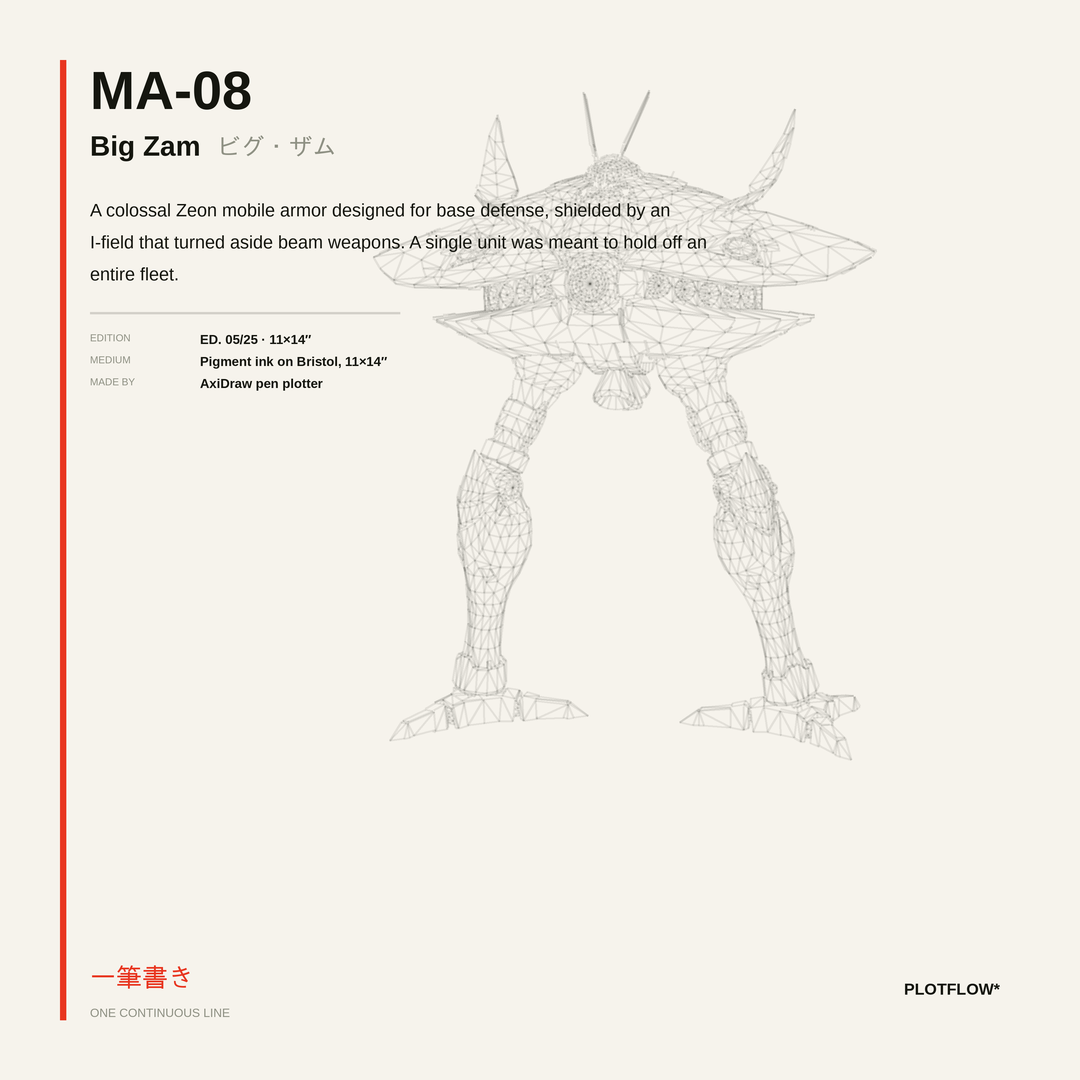
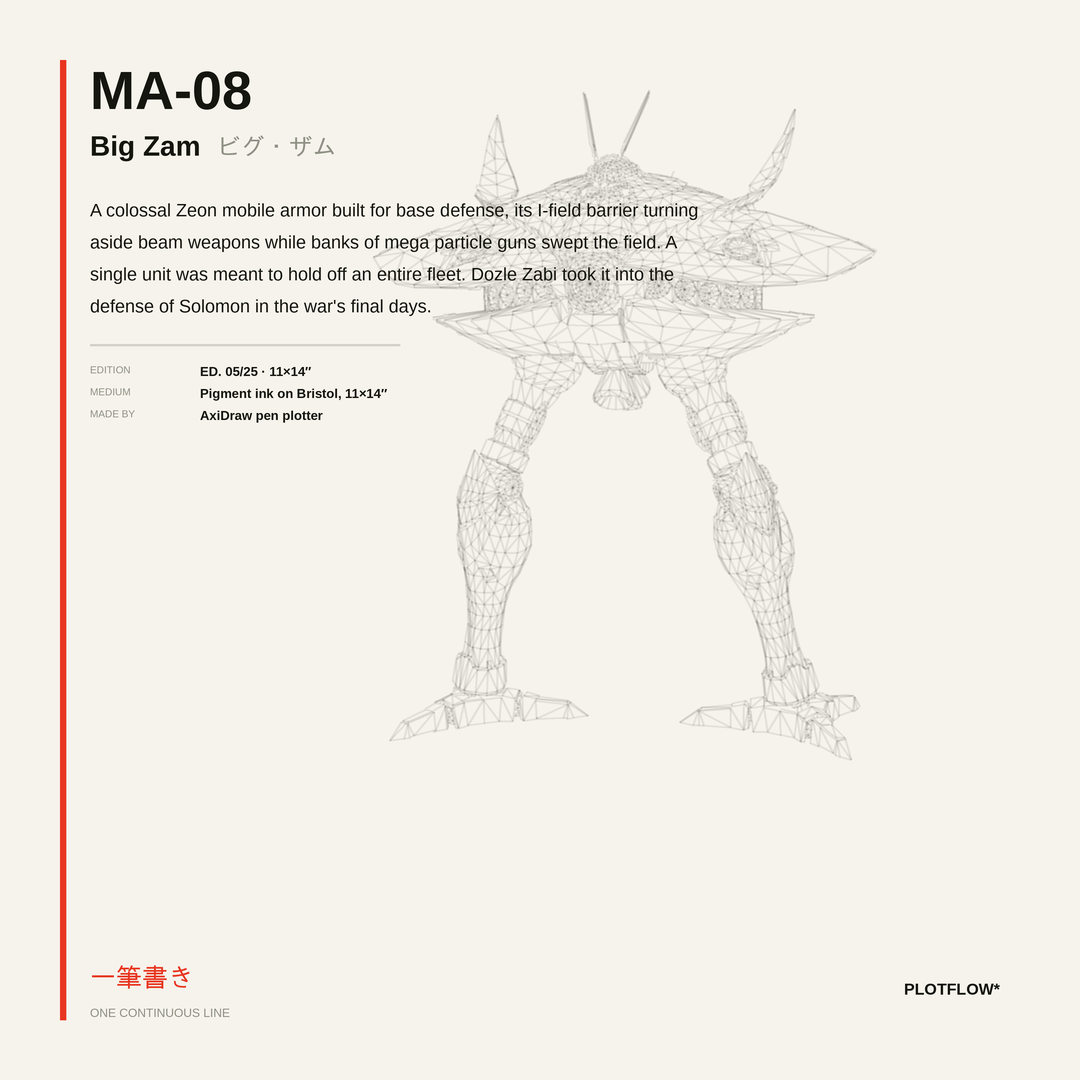
content: Enrich card lore with UC canon + export the 5 card styles
Both follow-ups:

1) Lore-accurate cards — enriched tools/build_data.py LORE with Universal
   Century canon (Red Comet & 3x speed, Project V, Dozle at Solomon, the Black
   Tri-Stars' Jet Stream Attack, Gato stealing the GP02), regenerated
   data/editions.js and the 6 lore cards. Verified each fits the card's
   7-line cap. This also deepens the on-site product-page lore.

2) Card-library export — marketing/exporter.py now has export_cards(): bundles
   assets/posts/ (process, lore, spec, drop per suit + 2 brand cards), each
   paired with its canon caption from tools/captions.json, into per-card packs
   plus a suit-grouped review board with Copy-caption buttons. `automate.py
   export` now defaults to this; the old still+video scheduler export stays
   available via `exporter.py --queue`.

Claude-Session: https://claude.ai/code/session_01JWP9tY4m4hfX8WyoEQZ1kU

Changed region(s): [[0.0611, 0.1833, 0.6417, 0.3972]]

diff --git a/data/editions.js b/data/editions.js
@@ -7,7 +7,7 @@ window.PLOTFLOW = {
 "jp": "ザク",
 "edition": "ED. 09/25 · 11×14″",
 "price": "$45",
-"lore": "The workhorse of the Principality of Zeon. Mass-produced and instantly known by its single mono-eye and shoulder spike. More Zaku IIs saw combat in the One Year War than any other mobile suit.",
+"lore": "The workhorse of the Principality of Zeon — the suit that proved the mobile-suit weapon class in combat. Instantly known by its single mono-eye and shoulder spike, more Zaku IIs fought in the One Year War (U.C. 0079) than any other machine. Char Aznable's crimson command type moved at three times the normal speed, earning him the name Red Comet.",
 "file": "zaku-ii.svg",
 "w": 1493,
 "h": 801,
@@ -19,7 +19,7 @@ window.PLOTFLOW = {
 "jp": "ガンキャノン",
 "edition": "ED. 18/25 · 11×14″",
 "price": "$45",
-"lore": "A mid-range support unit of the Earth Federation, built around its shoulder-mounted cannons. Heavier armor traded mobility for firepower fighting alongside the RX-78.",
+"lore": "One of the Earth Federation's first mass-production mobile suits, developed under Project V alongside the RX-78 Gundam. Built around twin shoulder cannons for mid- and long-range fire support, it traded mobility for heavier armor and served aboard White Base through the One Year War.",
 "file": "guncannon.svg",
 "w": 1718,
 "h": 882,
@@ -31,7 +31,7 @@ window.PLOTFLOW = {
 "jp": "ビグ・ザム",
 "edition": "ED. 05/25 · 11×14″",
 "price": "$45",
-"lore": "A colossal Zeon mobile armor designed for base defense, shielded by an I-field that turned aside beam weapons. A single unit was meant to hold off an entire fleet.",
+"lore": "A colossal Zeon mobile armor built for base defense, its I-field barrier turning aside beam weapons while banks of mega particle guns swept the field. A single unit was meant to hold off an entire fleet. Dozle Zabi took it into the defense of Solomon in the war's final days.",
 "file": "big-zam.svg",
 "w": 1427,
 "h": 817,
@@ -43,7 +43,7 @@ window.PLOTFLOW = {
 "jp": "ドム",
 "edition": "ED. 12/25 · 11×14″",
 "price": "$45",
-"lore": "A ground-assault suit riding hover thrusters for deceptively fast movement across open terrain. Its scattering beam gun and giant heat saber made it a frontline terror.",
+"lore": "A Zeon ground-assault suit that skated across open terrain on thermonuclear hover jets — deceptively fast for its bulk. Armed with a scattering beam gun and a giant heat saber, its Rick Dom variants armed the Black Tri-Stars and their feared Jet Stream Attack.",
 "file": "dom.svg",
 "w": 1135,
 "h": 749,
@@ -55,7 +55,7 @@ window.PLOTFLOW = {
 "jp": "ズゴック",
 "edition": "ED. 22/25 · 11×14″",
 "price": "$45",
-"lore": "An amphibious Zeon suit built for hit-and-run raids from the water. Rounded armor, clawed manipulators, and head-mounted mega particle guns.",
+"lore": "An amphibious Zeon suit built for hit-and-run raids from the water. Rounded armor, iron-nail claws, and head-mounted mega particle guns made it deadly at close range. Char Aznable fielded a custom command type in his signature red.",
 "file": "zgok.svg",
 "w": 1135,
 "h": 749,
@@ -67,7 +67,7 @@ window.PLOTFLOW = {
 "jp": "ガンダム試作2号機",
 "edition": "ED. 15/25 · 11×14″",
 "price": "$45",
-"lore": "A Gundam Development Project unit engineered to carry and fire a tactical warhead. Heavy shielding and a massive plasma-clad shield define its silhouette.",
+"lore": "A Gundam Development Project prototype engineered around a single purpose: to carry and fire a tactical nuclear warhead. Heavy shielding and a massive plasma-clad shield define its silhouette. In U.C. 0083 it was stolen by Anavel Gato — the Nightmare of Solomon.",
 "file": "gp-02.svg",
 "w": 1718,
 "h": 882,

diff --git a/marketing/exporter.py b/marketing/exporter.py
@@ -203,12 +203,189 @@ def _render_board(cards: List[Dict[str, Any]], stamp: str) -> str:
 </body></html>"""
 
 
+# ============================================================
+# CARD LIBRARY EXPORT — the 5 editorial card styles (assets/posts)
+# ============================================================
+
+CARDS_DIR = SCRIPT_DIR.parent / 'assets' / 'posts'
+CAPTIONS_FILE = SCRIPT_DIR.parent / 'tools' / 'captions.json'
+EDITIONS_FILE = SCRIPT_DIR.parent / 'data' / 'editions.js'
+
+# Card types in the order we'd post a suit's set, most attention-grabbing first.
+CARD_TYPES = ['process', 'lore', 'spec', 'drop']
+
+BRAND_CAPTION = (
+    "PLOTFLOW* — 一筆書き, one continuous line.\n\n"
+    "Universal-Century mobile suits, rebuilt as continuous vector paths and "
+    "traced in pigment ink on archival paper by an AxiDraw plotter. "
+    "Nothing is printed. Every impression is drawn.\n\n"
+    "Made to order · signed & numbered · plotflow.io"
+)
+
+
+def _load_captions():
+    data = json.loads(CAPTIONS_FILE.read_text())
+    return data.get('captions', {}), data.get('_footer', '')
+
+
+def _load_order_names():
+    c = EDITIONS_FILE.read_text()
+    d = json.loads(c[c.index('{'):c.rindex('}') + 1])
+    order = d.get('shopOrder') or list(d['suits'].keys())
+    names = {k: d['suits'][k].get('name', k) for k in d['suits']}
+    return order, names
+
+
+def export_cards() -> Path:
+    """Export the editorial card library (assets/posts) as ready-to-post packs.
+
+    Groups by suit (each card style paired with the suit's canon caption),
+    plus the brand cards. Produces per-card packs + a grouped review board.
+    """
+    if not CARDS_DIR.exists() or not any(CARDS_DIR.glob('post-*.png')):
+        raise SystemExit("No cards found. Run: python tools/gen_posts.py")
+
+    captions, footer = _load_captions()
+    order, names = _load_order_names()
+
+    stamp = datetime.now().strftime('%Y%m%d_%H%M%S')
+    out_dir = EXPORTS / stamp
+    out_dir.mkdir(parents=True, exist_ok=True)
+
+    groups = []
+    n = 0
+
+    for key in order:
+        cards = []
+        caption = (captions.get(key, '') + footer).strip()
+        for t in CARD_TYPES:
+            src = CARDS_DIR / f'post-{key}-{t}.png'
+            if not src.exists():
+                continue
+            n += 1
+            slug = f'{n:02d}_{key}_{t}'
+            pack = out_dir / slug
+            pack.mkdir(exist_ok=True)
+            shutil.copy2(src, pack / src.name)
+            (pack / 'caption.txt').write_text(caption, encoding='utf-8')
+            cards.append({'type': t, 'img_rel': f'{slug}/{src.name}',
+                          'caption': caption, 'file': src.name})
+        if cards:
+            groups.append({'key': key, 'name': names.get(key, key), 'cards': cards})
+
+    # brand cards
+    brand_cards = []
+    brand_caption = (BRAND_CAPTION + footer).strip()
+    for variant in ('dark', 'light'):
+        src = CARDS_DIR / f'post-brand-{variant}.png'
+        if not src.exists():
+            continue
+        n += 1
+        slug = f'{n:02d}_brand_{variant}'
+        pack = out_dir / slug
+        pack.mkdir(exist_ok=True)
+        shutil.copy2(src, pack / src.name)
+        (pack / 'caption.txt').write_text(brand_caption, encoding='utf-8')
+        brand_cards.append({'type': f'brand · {variant}', 'img_rel': f'{slug}/{src.name}',
+                            'caption': brand_caption, 'file': src.name})
+    if brand_cards:
+        groups.append({'key': 'brand', 'name': 'Brand / Studio', 'cards': brand_cards})
+
+    (out_dir / 'index.html').write_text(_render_card_board(groups, stamp, n), encoding='utf-8')
+    print(f"✓ Exported {n} cards across {len(groups)} groups → {out_dir}")
+    print(f"\n📋 Open the review board:\n   {out_dir / 'index.html'}")
+    return out_dir
+
+
+def _render_card_board(groups, stamp, total):
+    def esc(s):
+        return (s.replace('&', '&amp;').replace('<', '&lt;')
+                 .replace('>', '&gt;').replace('"', '&quot;'))
+
+    sections = []
+    for g in groups:
+        cards_html = []
+        for c in g['cards']:
+            cards_html.append(f"""
+        <article class="card">
+          <div class="media"><img src="{c['img_rel']}" alt=""></div>
+          <div class="body">
+            <span class="badge">{esc(c['type'])}</span>
+            <textarea readonly rows="10">{esc(c['caption'])}</textarea>
+            <div class="actions">
+              <button onclick="copyCap(this)">Copy caption</button>
+              <span class="file">{esc(c['file'])}</span>
+            </div>
+          </div>
+        </article>""")
+        sections.append(f"""
+      <section class="group">
+        <h2>{esc(g['name'])} <span class="ct">{len(g['cards'])} cards</span></h2>
+        <div class="grid">{''.join(cards_html)}</div>
+      </section>""")
+
+    return f"""<!doctype html>
+<html lang="en"><head><meta charset="utf-8">
+<meta name="viewport" content="width=device-width, initial-scale=1">
+<title>PLOTFLOW · Card board {stamp}</title>
+<style>
+  :root {{ --bristol:#f6f3ec; --ink:#15160f; --red:#e8351f; --dim:#43463e; }}
+  * {{ box-sizing:border-box; }}
+  body {{ margin:0; background:var(--bristol); color:var(--ink);
+    font-family:-apple-system,BlinkMacSystemFont,'Segoe UI',Roboto,sans-serif; }}
+  header {{ padding:24px 20px; border-bottom:1px solid #ddd; position:sticky; top:0;
+    background:var(--bristol); z-index:2; }}
+  header h1 {{ margin:0; font-size:20px; }}
+  header p {{ margin:4px 0 0; color:var(--dim); font-size:13px; }}
+  .group {{ padding:8px 20px 28px; max-width:1500px; margin:0 auto; }}
+  .group h2 {{ font-size:16px; text-transform:uppercase; letter-spacing:.06em;
+    border-bottom:2px solid var(--red); padding-bottom:6px; }}
+  .group h2 .ct {{ color:var(--dim); font-weight:400; font-size:12px; letter-spacing:0; }}
+  .grid {{ display:grid; grid-template-columns:repeat(auto-fill,minmax(340px,1fr)); gap:18px; margin-top:16px; }}
+  .card {{ background:#fff; border:1px solid #e4e0d6; border-radius:10px; overflow:hidden;
+    display:flex; flex-direction:column; }}
+  .media {{ background:var(--bristol); }}
+  .media img {{ width:100%; display:block; }}
+  .body {{ padding:12px; display:flex; flex-direction:column; gap:8px; }}
+  .badge {{ align-self:flex-start; background:var(--dim); color:#fff; font-size:11px;
+    padding:3px 9px; border-radius:20px; text-transform:uppercase; letter-spacing:.04em; }}
+  textarea {{ width:100%; border:1px solid #e4e0d6; border-radius:6px; padding:10px;
+    font-size:12px; line-height:1.5; resize:vertical; font-family:inherit; background:#fbfaf6; }}
+  .actions {{ display:flex; align-items:center; gap:10px; }}
+  button {{ background:var(--red); color:#fff; border:0; border-radius:6px; padding:9px 14px;
+    font-weight:600; cursor:pointer; font-size:13px; }}
+  button.ok {{ background:#2e7d32; }}
+  .file {{ font-size:11px; color:var(--dim); word-break:break-all; }}
+</style></head>
+<body>
+  <header>
+    <h1>PLOTFLOW* · Card board</h1>
+    <p>{total} cards across {len(groups)} groups. Copy the caption, save the card, post via the Instagram app. Batch {stamp}.</p>
+  </header>
+  {''.join(sections)}
+  <script>
+    function copyCap(btn) {{
+      const ta = btn.closest('.card').querySelector('textarea');
+      navigator.clipboard.writeText(ta.value).then(() => {{
+        const t = btn.textContent; btn.textContent = 'Copied ✓'; btn.classList.add('ok');
+        setTimeout(() => {{ btn.textContent = t; btn.classList.remove('ok'); }}, 1500);
+      }});
+    }}
+  </script>
+</body></html>"""
+
+
 def main():
     import argparse
-    p = argparse.ArgumentParser(description='Export scheduled posts as ready-to-post packs')
-    p.add_argument('--all', action='store_true', help='include already-posted/failed too')
+    p = argparse.ArgumentParser(description='Export ready-to-post packs')
+    p.add_argument('--queue', action='store_true',
+                   help='export the old scheduler queue (still+video) instead of the card library')
+    p.add_argument('--all', action='store_true', help='(queue mode) include posted/failed too')
     args = p.parse_args()
-    export_queue(only_queued=not args.all)
+    if args.queue:
+        export_queue(only_queued=not args.all)
+    else:
+        export_cards()
 
 
 if __name__ == '__main__':

diff --git a/tools/build_data.py b/tools/build_data.py
@@ -22,14 +22,15 @@ META = {
  "gp02":     {"file":"gp-02",    "name":"GP-02A",   "code":"RX-78GP02", "jp":"ガンダム試作2号機",     "edition":"ED. 15/25 · 11×14″", "price":"$45"},
 }
 
-# Short editorial blurb shown on each edition's product page.
+# Short editorial blurb shown on each edition's product page + lore card.
+# Accurate to Universal Century canon. Keep to ~6 lines so it fits the card.
 LORE = {
- "zaku":     "The workhorse of the Principality of Zeon. Mass-produced and instantly known by its single mono-eye and shoulder spike. More Zaku IIs saw combat in the One Year War than any other mobile suit.",
- "guncannon":"A mid-range support unit of the Earth Federation, built around its shoulder-mounted cannons. Heavier armor traded mobility for firepower fighting alongside the RX-78.",
- "bigzam":   "A colossal Zeon mobile armor designed for base defense, shielded by an I-field that turned aside beam weapons. A single unit was meant to hold off an entire fleet.",
- "dom":      "A ground-assault suit riding hover thrusters for deceptively fast movement across open terrain. Its scattering beam gun and giant heat saber made it a frontline terror.",
- "zgok":     "An amphibious Zeon suit built for hit-and-run raids from the water. Rounded armor, clawed manipulators, and head-mounted mega particle guns.",
- "gp02":     "A Gundam Development Project unit engineered to carry and fire a tactical warhead. Heavy shielding and a massive plasma-clad shield define its silhouette.",
+ "zaku":     "The workhorse of the Principality of Zeon — the suit that proved the mobile-suit weapon class in combat. Instantly known by its single mono-eye and shoulder spike, more Zaku IIs fought in the One Year War (U.C. 0079) than any other machine. Char Aznable's crimson command type moved at three times the normal speed, earning him the name Red Comet.",
+ "guncannon":"One of the Earth Federation's first mass-production mobile suits, developed under Project V alongside the RX-78 Gundam. Built around twin shoulder cannons for mid- and long-range fire support, it traded mobility for heavier armor and served aboard White Base through the One Year War.",
+ "bigzam":   "A colossal Zeon mobile armor built for base defense, its I-field barrier turning aside beam weapons while banks of mega particle guns swept the field. A single unit was meant to hold off an entire fleet. Dozle Zabi took it into the defense of Solomon in the war's final days.",
+ "dom":      "A Zeon ground-assault suit that skated across open terrain on thermonuclear hover jets — deceptively fast for its bulk. Armed with a scattering beam gun and a giant heat saber, its Rick Dom variants armed the Black Tri-Stars and their feared Jet Stream Attack.",
+ "zgok":     "An amphibious Zeon suit built for hit-and-run raids from the water. Rounded armor, iron-nail claws, and head-mounted mega particle guns made it deadly at close range. Char Aznable fielded a custom command type in his signature red.",
+ "gp02":     "A Gundam Development Project prototype engineered around a single purpose: to carry and fire a tactical nuclear warhead. Heavy shielding and a massive plasma-clad shield define its silhouette. In U.C. 0083 it was stolen by Anavel Gato — the Nightmare of Solomon.",
 }
 
 # order of the dropdown in the live plotter, and of the cards in the shop grid

diff --git a/marketing/automate.py b/marketing/automate.py
@@ -201,9 +201,9 @@ def main():
         automation.schedule_content(batch)
 
     elif args.command == 'export':
-        # Export the scheduled queue as ready-to-post packs (no Meta API needed)
-        from exporter import export_queue
-        export_queue()
+        # Export the editorial card library as ready-to-post packs (no Meta API)
+        from exporter import export_cards
+        export_cards()
 
     elif args.command == 'post':
         # Post pending content

diff --git a/marketing/README.md b/marketing/README.md
@@ -116,23 +116,27 @@ python automate.py media                           # build all + publish (via au
 
 If the Meta API is unavailable — a disabled/appealed Facebook account, no
 approved app, or you just want to post by hand — use the exporter. It turns the
-scheduled queue into ready-to-post packs plus a browser review board, so you
-publish through the Instagram app in seconds. No API, no approval, no account
-dependency.
+editorial card library into ready-to-post packs plus a browser review board, so
+you publish through the Instagram app in seconds. No API, no approval, no
+account dependency.
 
 ```bash
-python automate.py schedule --days 7   # build the queue
-python automate.py export              # write packs + review board
+python tools/gen_posts.py    # (run from repo root) build the 26 cards
+python automate.py export    # write packs + grouped review board
 ```
 
-This creates `exports/<timestamp>/` containing:
+`export` bundles the card library (`assets/posts/`): the 5 styles per suit
+(process, lore, spec, drop) plus the two brand cards, each paired with its
+canon caption from `tools/captions.json`. It creates `exports/<timestamp>/`:
 
-- one folder per post with the **media file** + **caption.txt**
-- **index.html** — a review board: each post shows its media preview, scheduled
-  time, and a **Copy caption** button
-- **posts.json** — the same data, machine-readable
+- one folder per card with the **card image** + **caption.txt**
+- **index.html** — a review board grouped by suit, each card with a **Copy
+  caption** button
 
-Open `index.html`, and for each slot: click *Copy caption*, save the media, and
+(Use `python automate.py export` → falls back to `--queue` for the older
+still+video scheduler set if you ever need it: `python exporter.py --queue`.)
+
+Open `index.html`, and for each card: click *Copy caption*, save the image, and
 post it in the Instagram app. Fastest on your phone — AirDrop/sync the folder,
 or open the board on mobile.
 
